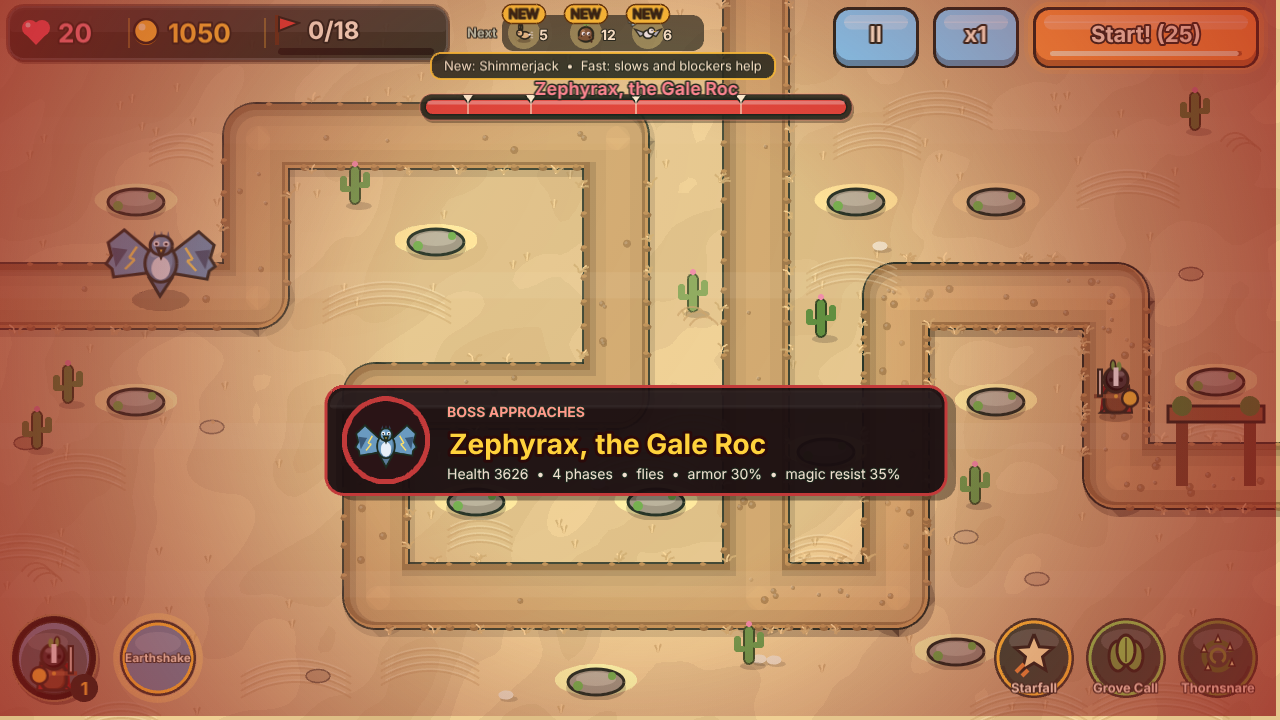
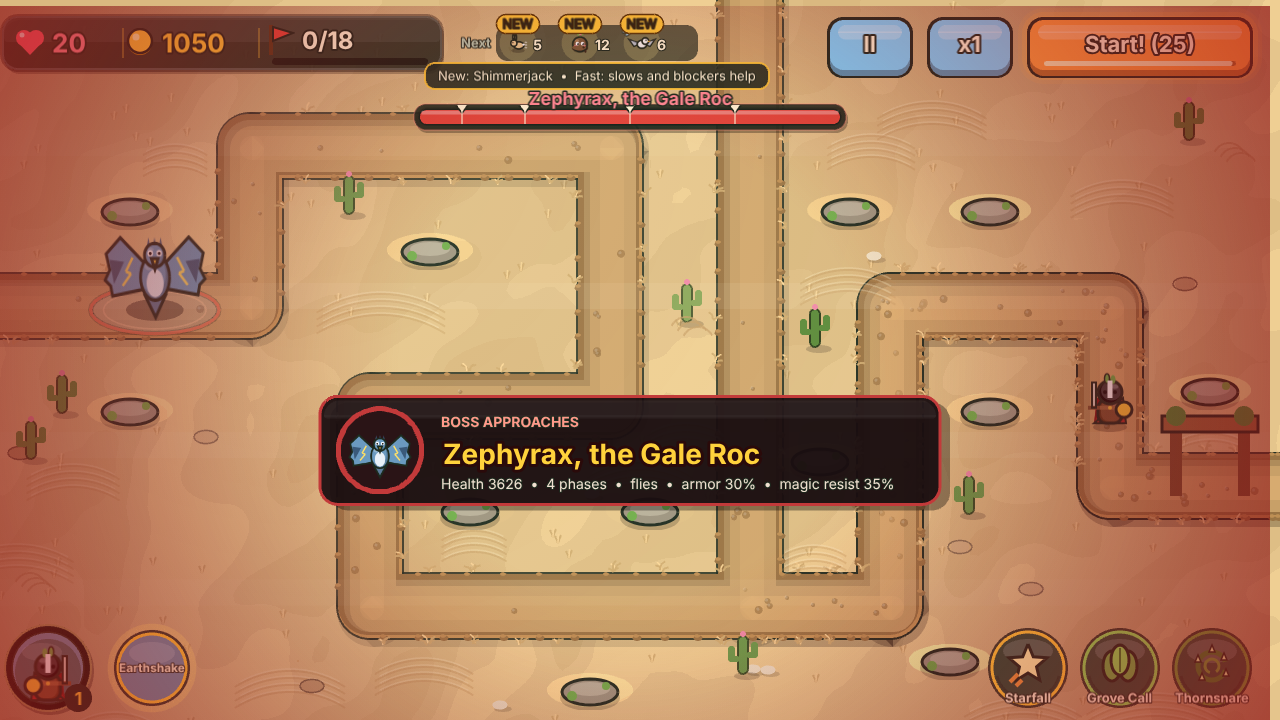
Fix F31: boss ground aura in boss-red with a body-colour fill
Claude-Session: https://claude.ai/code/session_014CFVfVpVtuJQnsGzjrGSnn

diff --git a/game/src/scenes/BattleScene.ts b/game/src/scenes/BattleScene.ts
@@ -72,6 +72,7 @@ interface EnemyView {
   pulse: number; // brief scale bump (a Barkdrum thumping its drum), decays to 0
   squash: number; // brief squash after a big hit, decays to 0
   trail: TrailState; // pale "damage trail" behind the health fill
+  aura?: Phaser.GameObjects.Graphics; // bosses: a faint ring of their colour on the ground, breathing slowly
 }
 
 /** Light color for each tower's upgrade pillar. */
@@ -4617,6 +4618,25 @@ export class BattleScene extends Phaser.Scene {
     }
   }
 
+  /** A boss's ground aura: a soft fill in its body colour and boss-red rings, breathing slowly (still under Reduce Motion). */
+  private bossAura(e: Enemy): Phaser.GameObjects.Graphics {
+    const col = Phaser.Display.Color.IntegerToColor(e.def.color).lighten(18).color;
+    const w = e.def.radius * 3.4;
+    const h = e.def.radius * 1.25;
+    const g = this.add.graphics();
+    // the soft fill takes the boss's own colour; the rings use the boss-red of the boss bar and cards, so every boss shares one cue
+    g.fillStyle(col, 0.18);
+    g.fillEllipse(0, 0, w, h);
+    g.lineStyle(5, C.ink, 0.35);
+    g.strokeEllipse(0, 0, w, h);
+    g.lineStyle(3, 0xff7a5a, 0.85);
+    g.strokeEllipse(0, 0, w, h);
+    g.lineStyle(1.5, 0xffd0a0, 0.55);
+    g.strokeEllipse(0, 0, w * 0.8, h * 0.8);
+    if (!motion.reduced) this.tweens.add({ targets: g, scaleX: 1.12, scaleY: 1.12, alpha: 0.6, duration: 1100, yoyo: true, repeat: -1, ease: 'Sine.easeInOut' });
+    return g;
+  }
+
   private addEnemyView(e: Enemy): void {
     const sprite = this.add.image(e.pos.x, e.pos.y, `enemy_${e.def.id}`);
     const bar = this.add.graphics();
@@ -4627,13 +4647,16 @@ export class BattleScene extends Phaser.Scene {
       ? this.add.ellipse(e.pos.x, e.pos.y, e.def.radius * 1.6, e.def.radius * 0.6, 0x000000, sa)
       : this.add.ellipse(e.pos.x, e.pos.y, e.def.radius * 1.9, e.def.radius * 0.7, 0x000000, sa);
     const mound = e.def.burrow || e.def.dive ? this.add.image(e.pos.x, e.pos.y, 'mound').setVisible(false) : null;
-    this.enemyViews.set(e.uid, { sprite, bar, bob: Math.random() * Math.PI * 2, shadow, mound, air: e.def.flying ? 1 : 0, pulse: 0, squash: 0, trail: newTrail(1) });
+    // bosses stand in a faint aura ring of their own colour, so they read as the big threat at a glance (design F31)
+    const aura = e.def.boss ? this.bossAura(e) : undefined;
+    this.enemyViews.set(e.uid, { sprite, bar, bob: Math.random() * Math.PI * 2, shadow, mound, air: e.def.flying ? 1 : 0, pulse: 0, squash: 0, trail: newTrail(1), aura });
   }
 
   private killView(uid: number, v: EnemyView): void {
     this.enemyViews.delete(uid);
     v.bar.destroy();
     v.shadow?.destroy();
+    v.aura?.destroy();
     v.mound?.destroy();
     this.tweens.add({ targets: v.sprite, scale: 1.4, alpha: 0, duration: 180, onComplete: () => v.sprite.destroy() });
   }
@@ -4761,6 +4784,7 @@ export class BattleScene extends Phaser.Scene {
         v.sprite.setAlpha(spotted ? 1 : 0.32 + Math.sin(v.bob * 1.5) * 0.1);
       }
       v.shadow?.setPosition(e.pos.x, e.pos.y + (e.def.flying ? 4 : e.def.radius * 0.72)).setDepth(e.pos.y - 1).setVisible(!e.underground);
+      v.aura?.setPosition(e.pos.x, e.pos.y + (e.def.flying ? 4 : e.def.radius * 0.72)).setDepth(e.pos.y - 1.5).setVisible(!e.underground);
       if (v.mound) {
         v.mound.setVisible(e.underground).setPosition(e.pos.x, e.pos.y + 2).setDepth(e.pos.y);
         v.sprite.setVisible(!e.underground);

diff --git a/game/PROGRESS.md b/game/PROGRESS.md
@@ -2053,7 +2053,7 @@ Iteration counter: **316** (feature loop stopped at the user's request; design l
 ## Fix Loop (requested by the user after the skill reviews)
 **Goal: apply every fix from the design critique, accessibility audit and game-floors scoring, one per iteration, then resume the Design Backlog.** No new levels, regions, enemies or features. Every 5th fix iteration is a consistency pass (palette, outline weight, phone readability at 740x360). Screenshots go to `screenshots/fix-<n>-*.png`.
 
-Fix counter: **F30**
+Fix counter: **F31**
 
 ### Fix Done
 - **F1 (A1) Keyboard play everywhere.** New scene plugin `src/ui/keyNav.ts` (registered in `main.ts`, so every scene gets it). Tab / Shift+Tab and the arrow keys move a pulsing gold focus ring (ink-backed) between every reachable control: anything with a hand cursor whose centre a tap would actually hit, so controls under a modal blocker are skipped. Enter presses the focused control (Space too, in scenes that don't bind Space). Esc presses a Back / Close control in scenes without an Esc key of their own. Only the top-most running scene with controls takes the keys, and a panel that opens takes the focus on its biggest new control (map node → level card → Replay). Pure logic in `src/systems/focusNav.ts` (reading order, directional nearest with sideways penalty, back-label match) with 7 tests in `tests/focusNav.test.ts`. `scripts/keynav-check.mjs` plays menu → Campaign → level 1 → Replay → battle with keys only. Screenshots: `fix-1-menu.png`, `fix-1-map.png`, `fix-1-card.png`, `fix-1-battle.png`.
@@ -2249,6 +2249,13 @@ Fix counter: **F30**
 
   Phone shot: `fix-30-phone-1.png`.
 
+- **F31 (Design Backlog 3, part a) Boss aura.** All 25 bosses now stand in a ground aura that marks them as the big threat at a glance. The aura (`BattleScene.bossAura`) has:
+  - a soft fill in the boss's own lightened body colour;
+  - a boss-red (#ff7a5a) ring over an ink underlay, the same red as the boss bar and the boss rim on enemy cards, so every boss shares one cue;
+  - a pale inner ring.
+
+  It follows the boss under its contact shadow, hides while the boss is underground, is destroyed with the view, and breathes slowly (still under Reduce Motion). A first try used only the body colour; that vanished under green bosses on green maps, so the ring was switched to boss-red. Shots: `fix-31-before-*` and `fix-31-after-*` (Old Murkmaw, Grimtusk, Galestag).
+
 ### Fix Backlog (ranked)
 - Empty: every review fix is done (A1–A5, F1–F5, C1–C3, plus consistency passes F6, F10, F15). **Next: resume the Design Backlog below** (from item 1, enemies part 3), still counting iterations as F-numbers here.
 
@@ -2298,7 +2305,7 @@ Design counter: **D3**
 
 ### Design Backlog (ranked)
 1. ~~Enemies, part 3~~ done in F17–F29 (every regular foe hand-detailed).
-3. Bosses: shading, crowns and horns with metal shine, a faint aura ring, and bigger silhouettes.
+3. Bosses: shading, crowns and horns with metal shine, ~~a faint aura ring~~ (F31), and bigger silhouettes. Next: metal shine on crowns and horns, boss by boss.
 4. Towers: every tier and branch gets shaded stone and wood, roof highlights, and banners in the tower colour.
 5. Consistency pass: palette, outline weight and phone readability across heroes, enemies and towers.
 6. Wardens, Rangers and raid troops: shaded bodies, armor glints and readable silhouettes.
